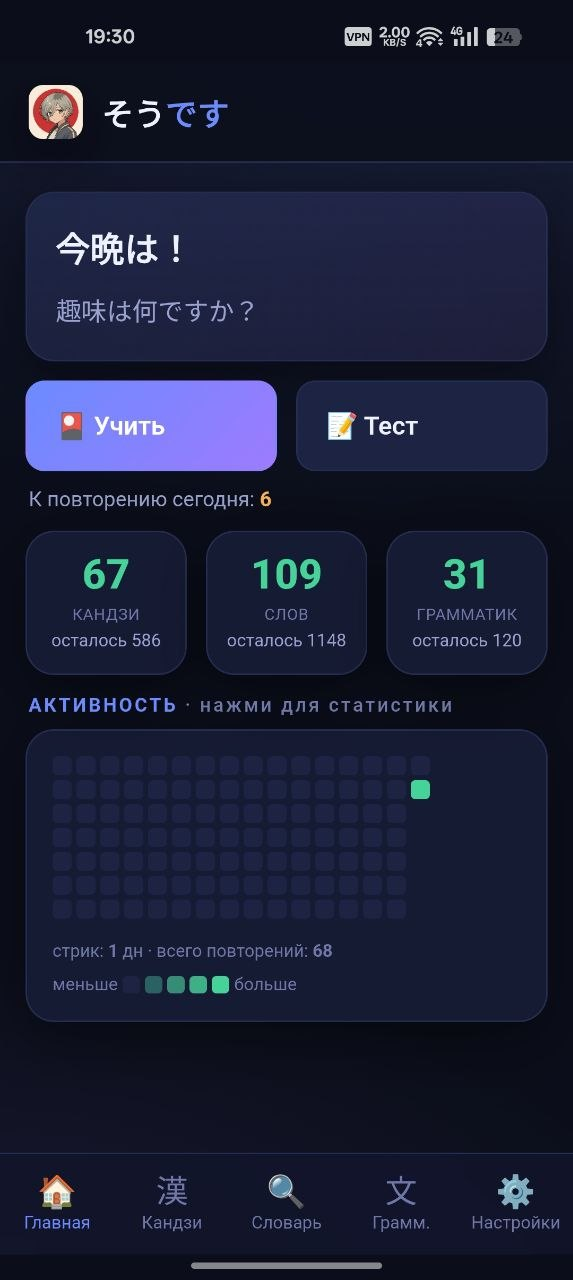
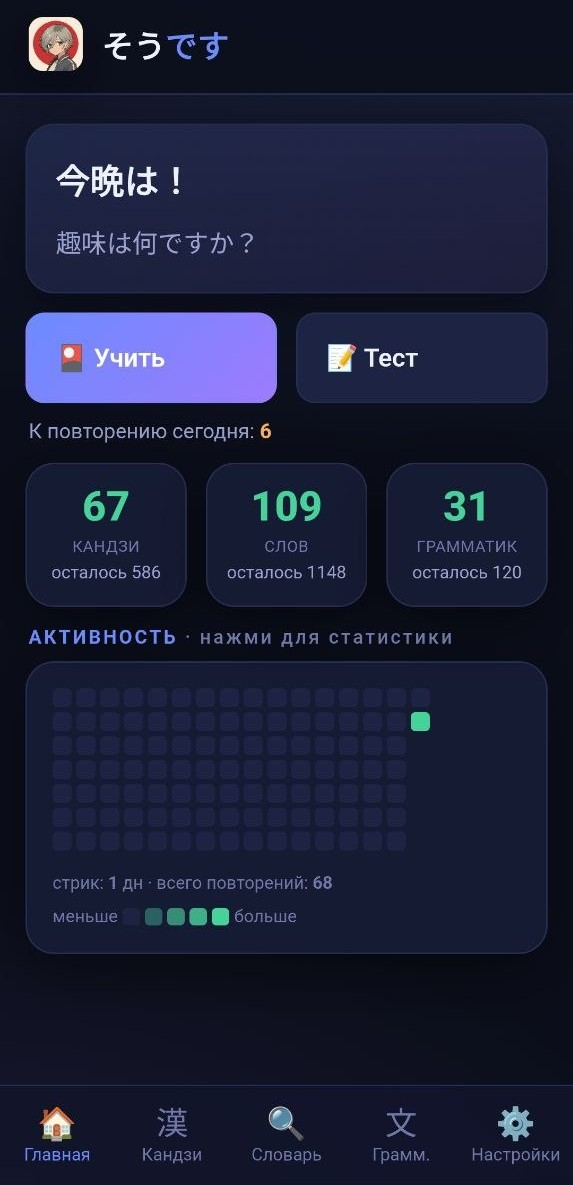
Fix README line endings, ignore release folder

diff --git a/README.md b/README.md
@@ -26,13 +26,13 @@
 
 ## 📱 Скриншоты
 
-| Главная | Кандзи | Словарь |
-|---|---|---|
-| ![Главная](docs/screenshots/home.jpg) | ![Кандзи](docs/screenshots/kanji.jpg) | ![Словарь](docs/screenshots/dict.jpg) |
-
-| Тест | Викторина |
+| Главная | Кандзи |
 |---|---|
-| ![Тест](docs/screenshots/test.jpg) | ![Викторина](docs/screenshots/quiz.jpg) |
+| ![Главная](docs/screenshots/home.jpg) | ![Кандзи](docs/screenshots/kanji.jpg) | 
+
+| Словарь | Викторина |
+|---|---|
+| ![Словарь](docs/screenshots/dict.jpg) | ![Викторина](docs/screenshots/quiz.jpg) |
 
 ---
 